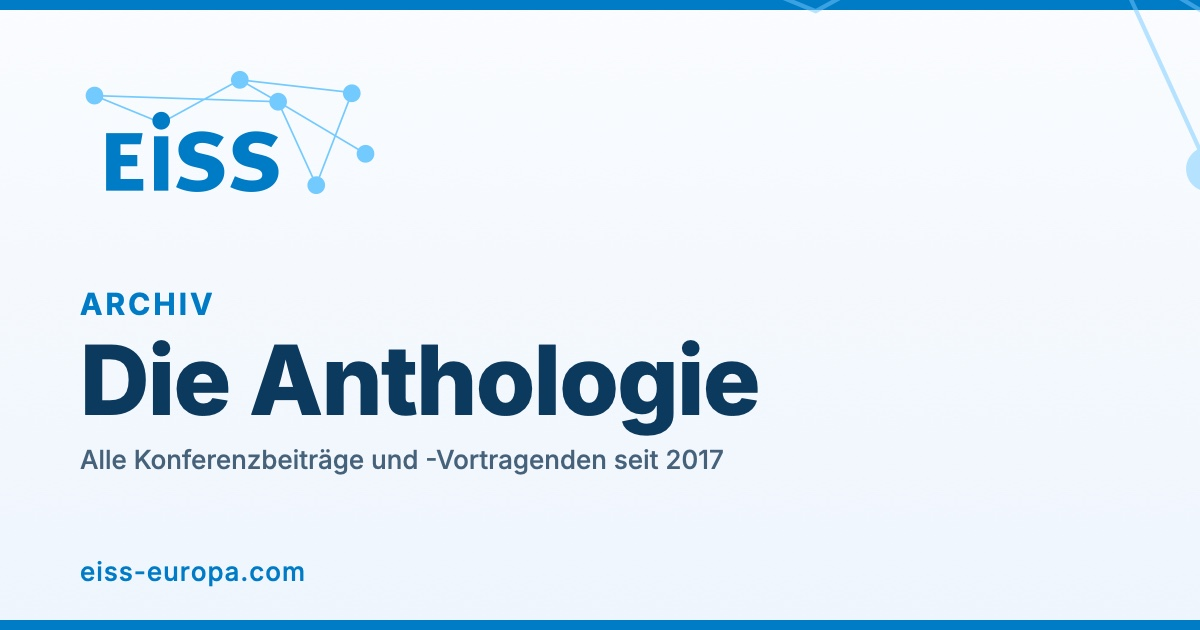
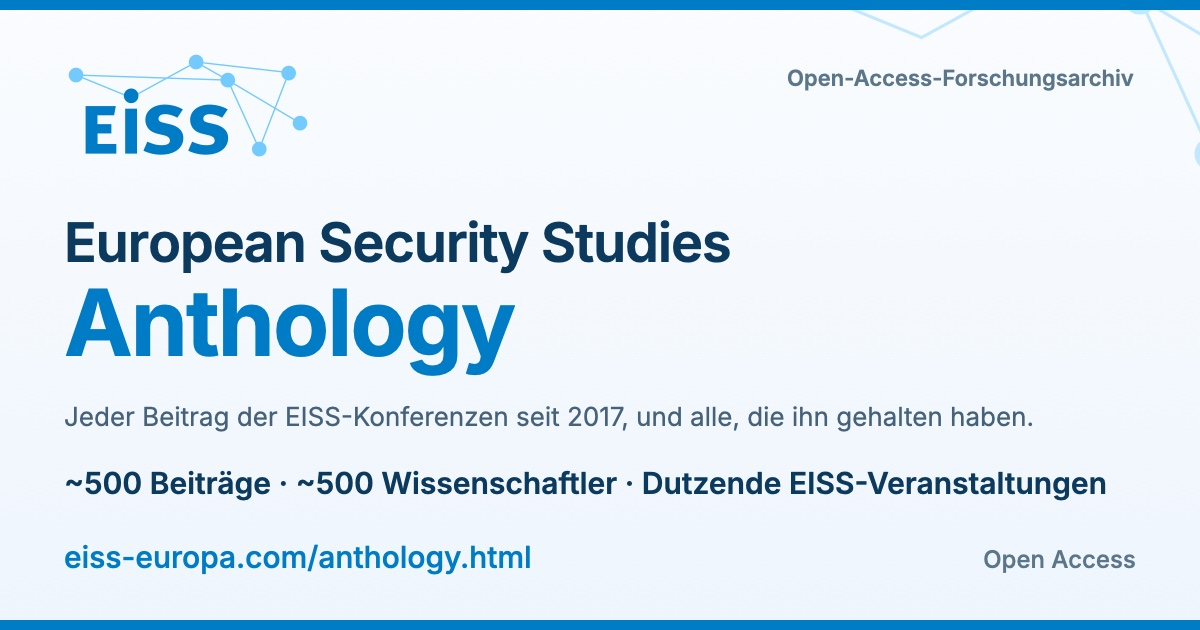
design(og): marketing-oriented Anthology share card + square/story social images
Give the Anthology a bespoke, name-led marketing set in the light brand
language (the European Security Studies Anthology name is now the dominant
element), via a new scripts/make-anthology-social.py:
- a redrawn OG card (anthology-meta{,.fr,.de}.jpg, 1200x630) replacing the
  generic make-share-cards template card,
- square 1080x1080 and story 1080x1920 images under assets/images/social/
  for Instagram / LinkedIn / stories.
Each shows the official lockup, the soft scale (~500 papers, ~500 scholars,
dozens of EISS events), open-access framing and the URL. Authored on a square
canvas + centre-crop so macOS qlmanage renders every aspect. Removes the
anthology entry from make-share-cards.py (single owner).

diff --git a/scripts/make-anthology-social.py b/scripts/make-anthology-social.py
@@ -1,0 +1,238 @@
+#!/usr/bin/env python3
+"""
+Bespoke marketing assets for the European Security Studies Anthology (#639/#96
+follow-up): a more marketing-oriented Open Graph card than the generic
+make-share-cards.py template, plus square and story social images.
+
+Outputs (all light-brand, official EISS lockup, name-led):
+  src/assets/images/anthology-meta.jpg        OG / Twitter, 1200x630, EN
+  src/assets/images/anthology-meta.fr.jpg     OG, 1200x630, FR
+  src/assets/images/anthology-meta.de.jpg     OG, 1200x630, DE
+  src/assets/images/social/anthology-square.jpg   1080x1080, EN (IG / LinkedIn feed)
+  src/assets/images/social/anthology-story.jpg     1080x1920, EN (stories / reels)
+
+Because this owns anthology-meta.jpg, the `anthology` entry is removed from
+make-share-cards.py's CARDS table (single owner).
+
+Rasterising: macOS qlmanage renders an SVG into a square thumbnail at -s S
+(longer side = S), so we author each canvas at its true WxH, render at
+S = max(W, H), then sips centre-crops to WxH. Same trick make-share-cards.py
+uses for the 1200x630 crop, generalised to any aspect.
+
+Re-run after editing. Reuses make-share-cards.py's font + brand-SVG helpers.
+"""
+from __future__ import annotations
+
+import importlib.util
+import subprocess
+import sys
+import tempfile
+from pathlib import Path
+from xml.sax.saxutils import escape
+
+ROOT = Path(__file__).resolve().parent.parent
+OUT = ROOT / "src" / "assets" / "images"
+SOCIAL = OUT / "social"
+
+# Reuse the embedded-Inter + brand-SVG-inner helpers from make-share-cards.py.
+_spec = importlib.util.spec_from_file_location("msc", ROOT / "scripts" / "make-share-cards.py")
+_msc = importlib.util.module_from_spec(_spec)
+_spec.loader.exec_module(_msc)
+
+# ── palette (light brand, fixed design — same language as the OG cards) ──
+NAVY = "#0C3A5E"
+BLUE = "#007bc6"
+SLATE = "#46627A"
+MUTED = "#5C7689"
+TINT = "#E6F1FB"
+TINT_TEXT = "#0C447C"
+TINT_LABEL = "#3C6690"
+HAIR = "#E2EBF4"
+NET = "#73caff"
+
+FONT = "'Inter', -apple-system, system-ui, sans-serif"
+
+OG = {
+    "en": {
+        "kicker": "Open access research archive",
+        "lead": "Every EISS conference paper since 2017, and everyone who gave it.",
+        "stats": "~500 papers · ~500 scholars · dozens of EISS events",
+        "open": "Free · open access",
+    },
+    "fr": {
+        "kicker": "Archive de recherche en libre accès",
+        "lead": "Chaque communication des conférences EISS depuis 2017, et qui l'a présentée.",
+        "stats": "~500 communications · ~500 chercheurs · des dizaines d'événements EISS",
+        "open": "Libre accès",
+    },
+    "de": {
+        "kicker": "Open-Access-Forschungsarchiv",
+        "lead": "Jeder Beitrag der EISS-Konferenzen seit 2017, und alle, die ihn gehalten haben.",
+        "stats": "~500 Beiträge · ~500 Wissenschaftler · Dutzende EISS-Veranstaltungen",
+        "open": "Open Access",
+    },
+}
+
+FEATURES = [
+    "Browse by person or by paper",
+    "Abstracts, with links to the published version",
+    "One-click citation export (.bib / .ris)",
+    "European Security Studies Prize winners",
+    "Free and open: no tracking, no sign-up",
+]
+URL = "eiss-europa.com/anthology.html"
+
+
+def _defs() -> str:
+    return (
+        f"<defs><style>{_msc.inter_face()}</style>"
+        '<linearGradient id="bg" x1="0" y1="0" x2="0" y2="1">'
+        '<stop offset="0%" stop-color="#ffffff"/>'
+        '<stop offset="100%" stop-color="#E9F2FC"/></linearGradient></defs>'
+    )
+
+
+def _lockup(x: float, y: float, w: float) -> str:
+    vb, inner = _msc.brand_svg_inner("logo-lockup.svg")
+    h = w * 95.18 / 212.42
+    return (
+        f'<svg x="{x}" y="{y}" width="{w}" height="{h:.1f}" viewBox="{vb}" '
+        f'preserveAspectRatio="xMidYMid meet" style="color:{BLUE}">{inner}</svg>'
+    )
+
+
+def _motif(x: float, y: float, w: float, opacity: float = 0.45) -> str:
+    vb, inner = _msc.brand_svg_inner("logo-mark.svg")
+    h = w * 95.18 / 212.42
+    return (
+        f'<g opacity="{opacity}"><svg x="{x}" y="{y}" width="{w}" height="{h:.1f}" '
+        f'viewBox="{vb}" preserveAspectRatio="xMidYMid meet">{inner}</svg></g>'
+    )
+
+
+def _text(x, y, size, fill, content, weight=400, anchor="start", spacing=None):
+    ls = f' letter-spacing="{spacing}"' if spacing is not None else ""
+    return (
+        f'<text x="{x}" y="{y}" font-family="{FONT}" font-size="{size}" '
+        f'font-weight="{weight}" fill="{fill}" text-anchor="{anchor}"{ls}>{escape(content)}</text>'
+    )
+
+
+def _stat_cell(x, y, w, h, big, small):
+    return (
+        f'<rect x="{x}" y="{y}" width="{w}" height="{h}" rx="14" fill="{TINT}"/>'
+        + _text(x + w / 2, y + h * 0.52, h * 0.34, TINT_TEXT, big, weight=700, anchor="middle")
+        + _text(x + w / 2, y + h * 0.78, h * 0.17, TINT_LABEL, small, anchor="middle")
+    )
+
+
+def _feature(x, y, size, content):
+    # a small filled brand dot + label
+    return (
+        f'<circle cx="{x + size*0.35}" cy="{y - size*0.32}" r="{size*0.28}" fill="{BLUE}"/>'
+        + _text(x + size * 1.1, y, size, "#103A5A", content)
+    )
+
+
+def build_og(strings: dict) -> str:
+    # qlmanage only renders square thumbnails, so author a 1200x1200 canvas and
+    # lay the content in the centred 630-tall band [285, 915]; rasterize() then
+    # crops to 1200x630. (Same trick as make-share-cards.py.)
+    C, top = 1200, 285
+    s = [f'<svg xmlns="http://www.w3.org/2000/svg" viewBox="0 0 {C} {C}" width="{C}" height="{C}">', _defs()]
+    s.append(f'<rect width="{C}" height="{C}" fill="url(#bg)"/>')
+    s.append(_motif(770, top - 70, 560, 0.4))
+    s.append(f'<rect x="0" y="{top}" width="{C}" height="10" fill="{BLUE}"/>')
+    s.append(f'<rect x="0" y="{top+620}" width="{C}" height="10" fill="{BLUE}"/>')
+    s.append(_lockup(64, top + 50, 248))
+    s.append(_text(1136, top + 86, 22, MUTED, strings["kicker"], weight=600, anchor="end"))
+    s.append(_text(64, top + 262, 54, NAVY, "European Security Studies", weight=600, spacing="-1"))
+    s.append(_text(64, top + 356, 92, BLUE, "Anthology", weight=700, spacing="-2"))
+    s.append(_text(64, top + 426, 26, SLATE, strings["lead"], weight=400))
+    s.append(_text(64, top + 494, 30, NAVY, strings["stats"], weight=600))
+    s.append(_text(64, top + 568, 30, BLUE, URL, weight=500))
+    s.append(_text(1136, top + 568, 24, MUTED, strings["open"], weight=500, anchor="end"))
+    s.append("</svg>")
+    return "".join(s)
+
+
+def build_square() -> str:
+    W = H = 1080
+    s = [f'<svg xmlns="http://www.w3.org/2000/svg" viewBox="0 0 {W} {H}" width="{W}" height="{H}">', _defs()]
+    s.append(f'<rect width="{W}" height="{H}" fill="url(#bg)"/>')
+    s.append(_motif(640, -80, 620, 0.4))
+    s.append(f'<rect x="0" y="0" width="{W}" height="12" fill="{BLUE}"/>')
+    s.append(f'<rect x="0" y="{H-12}" width="{W}" height="12" fill="{BLUE}"/>')
+    s.append(_lockup(80, 80, 232))
+    s.append(_text(80, 250, 20, MUTED, "Open access research archive", weight=600, spacing="1"))
+    s.append(_text(80, 372, 56, NAVY, "European Security Studies", weight=600, spacing="-1"))
+    s.append(_text(80, 470, 104, BLUE, "Anthology", weight=700, spacing="-2"))
+    s.append(_text(80, 540, 30, SLATE, "Every EISS conference paper since 2017,", weight=400))
+    s.append(_text(80, 580, 30, SLATE, "and everyone who gave it.", weight=400))
+    s.append(_stat_cell(80, 632, 290, 130, "~500", "papers"))
+    s.append(_stat_cell(395, 632, 290, 130, "~500", "scholars"))
+    s.append(_stat_cell(710, 632, 290, 130, "dozens", "of EISS events"))
+    for i, feat in enumerate(FEATURES[:3]):
+        s.append(_feature(82, 838 + i * 56, 28, feat))
+    s.append(_text(80, 1008, 34, BLUE, URL, weight=500))
+    s.append("</svg>")
+    return "".join(s)
+
+
+def build_story() -> str:
+    # Portrait 1080x1920. qlmanage renders square, so author a 1920x1920 canvas
+    # with the content in the centred 1080-wide band [420, 1500]; rasterize()
+    # crops to 1080x1920. bx offsets every x into that band.
+    C, bx = 1920, 420
+    s = [f'<svg xmlns="http://www.w3.org/2000/svg" viewBox="0 0 {C} {C}" width="{C}" height="{C}">', _defs()]
+    s.append(f'<rect width="{C}" height="{C}" fill="url(#bg)"/>')
+    s.append(_motif(bx + 470, 70, 700, 0.4))
+    s.append(f'<rect x="0" y="0" width="{C}" height="14" fill="{BLUE}"/>')
+    s.append(f'<rect x="0" y="{C-14}" width="{C}" height="14" fill="{BLUE}"/>')
+    s.append(_lockup(bx + 10, 150, 280))
+    s.append(_text(bx + 10, 318, 24, MUTED, "Open access research archive", weight=600, spacing="1.5"))
+    s.append(_text(bx + 10, 560, 64, NAVY, "European Security Studies", weight=600, spacing="-1"))
+    s.append(_text(bx + 10, 684, 132, BLUE, "Anthology", weight=700, spacing="-3"))
+    s.append(_text(bx + 10, 786, 36, SLATE, "Every EISS conference paper since 2017,", weight=400))
+    s.append(_text(bx + 10, 836, 36, SLATE, "and everyone who gave it.", weight=400))
+    s.append(_stat_cell(bx + 10, 910, 290, 150, "~500", "papers"))
+    s.append(_stat_cell(bx + 315, 910, 290, 150, "~500", "scholars"))
+    s.append(_stat_cell(bx + 620, 910, 290, 150, "dozens", "events"))
+    for i, feat in enumerate(FEATURES):
+        s.append(_feature(bx + 14, 1180 + i * 86, 34, feat))
+    s.append(_text(bx + 10, 1700, 42, BLUE, URL, weight=500))
+    s.append(_text(bx + 10, 1760, 28, MUTED, "Free · open access · no sign-up", weight=500, spacing="0.5"))
+    s.append("</svg>")
+    return "".join(s)
+
+
+def rasterize(svg: str, w: int, h: int, dest: Path) -> None:
+    dest.parent.mkdir(parents=True, exist_ok=True)
+    tmp = Path(tempfile.mkstemp(suffix=".svg", prefix="anth-")[1])
+    tmp.write_text(svg, encoding="utf-8")
+    work = Path(tempfile.mkdtemp(prefix="anth-out-"))
+    try:
+        s = max(w, h)
+        subprocess.run(["qlmanage", "-t", "-s", str(s), "-o", str(work), str(tmp)],
+                       check=True, capture_output=True)
+        png = work / f"{tmp.name}.png"
+        if not png.exists():
+            sys.exit(f"qlmanage produced no output for {dest.name}")
+        subprocess.run(["sips", "-c", str(h), str(w), "-s", "format", "jpeg",
+                        "-s", "formatOptions", "88", str(png), "--out", str(dest)],
+                       check=True, capture_output=True)
+        print(f"  ✓ {dest.relative_to(ROOT)}  ({dest.stat().st_size // 1024} KB)")
+    finally:
+        tmp.unlink(missing_ok=True)
+
+
+def main() -> None:
+    for lang, strings in OG.items():
+        name = "anthology-meta.jpg" if lang == "en" else f"anthology-meta.{lang}.jpg"
+        rasterize(build_og(strings), 1200, 630, OUT / name)
+    rasterize(build_square(), 1080, 1080, SOCIAL / "anthology-square.jpg")
+    rasterize(build_story(), 1080, 1920, SOCIAL / "anthology-story.jpg")
+
+
+if __name__ == "__main__":
+    main()

diff --git a/scripts/make-share-cards.py b/scripts/make-share-cards.py
@@ -188,14 +188,9 @@ CARDS = [
         "de": {"eyebrow": "Aktuelles", "title": "Aktuelles",
                "subtitle": "Konferenzen · Publikationen · Preise · Partnerschaften"},
     }},
-    {"slug": "anthology", "i18n": {
-        "en": {"eyebrow": "Archive", "title": "The Anthology",
-               "subtitle": "Every conference paper and speaker since 2017"},
-        "fr": {"eyebrow": "Archives", "title": "L'Anthologie",
-               "subtitle": "Chaque communication et intervenant de conférence depuis 2017"},
-        "de": {"eyebrow": "Archiv", "title": "Die Anthologie",
-               "subtitle": "Alle Konferenzbeiträge und -Vortragenden seit 2017"},
-    }},
+    # NOTE: the `anthology` card lives in scripts/make-anthology-social.py — a
+    # bespoke, marketing-oriented card (+ square/story social images). Do not
+    # add an `anthology` entry here, or the two would fight over the same file.
 ]
 
 # 1200×1200 square share card SVG template.

diff --git a/CHANGELOG.md b/CHANGELOG.md
@@ -122,6 +122,7 @@ At v2.13.0r (formerly v2.21.0) we adopted the NetSec-style versioning rules spel
 
 ### Added
 
+- **A marketing-oriented share card and social images for the Anthology.** The European Security Studies Anthology gets a bespoke set, name-led (the title is now the dominant element) in the light brand language, generated by `scripts/make-anthology-social.py`: a redrawn Open Graph card (`anthology-meta.jpg`, EN + FR + DE — replacing the generic template card) plus square (1080×1080) and story (1080×1920) images under `assets/images/social/` for Instagram, LinkedIn and stories. Each carries the official lockup, the soft scale (~500 papers, ~500 scholars, dozens of EISS events), open-access framing, and the URL. The `anthology` entry is removed from `make-share-cards.py` so there's a single owner.
 - **A `/prizes` page with the European Security Studies Prize laureate roll.** `/prizes` (EN + FR + DE) lists the European Security Studies Prize winners year by year, each laureate linking straight to its Anthology paper page (where the abstract, published version and citation already live). The roll is derived from the Anthology corpus (`prizeLaureates.js` over `paperPrizes.json`), so adding a year stays a one-line data edit, and a winning paper's prize line now links back to the page. Part of [#639](https://github.com/EISSeuropa/EISSeuropa.github.io/issues/639).
 - **Bespoke social share cards for the News and Anthology pages.** `/news` and `/anthology` (EN + FR + DE) now carry their own Open Graph / Twitter card images, in the established brand style, instead of falling back to the generic site card. Generated by `scripts/make-share-cards.py`, which gains `news` and `anthology` entries plus an optional slug filter (`make-share-cards.py news anthology`) so a single card can be regenerated without re-rasterising the rest.
 - **A News surface: a "Latest" section on the homepage, a `/news` archive, and an Atom feed.** The homepage gains a "Latest" list under the announcement card showing the five most recent items (decayed to the last 18 months), and a full `/news` archive (EN + FR + DE) lists everything newest-first. Items are hand-curated in `src/_data/news.json` (date, type, title, optional link and excerpt). An Atom feed at `/feed.xml` carries the same items, linked from the page head and the footer, so scholars and journalists can follow EISS without any tracking. Publishing is a two-minute task: file a GitHub issue, label it `news`, and a workflow turns the title and body into a post and opens an auto-merging PR (the issue body can lead with optional `Type:` / `URL:` / `Date:` lines). News chrome is localised; item titles and excerpts are authored once in English. Closes [#96](https://github.com/EISSeuropa/EISSeuropa.github.io/issues/96), [#605](https://github.com/EISSeuropa/EISSeuropa.github.io/issues/605), and [#634](https://github.com/EISSeuropa/EISSeuropa.github.io/issues/634).